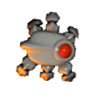
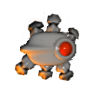
buriedRobot animation improved more

Changed region(s): [[0.15, 0.09, 0.81, 0.84]]

diff --git a/src/game/Utils/Utility.java b/src/game/Utils/Utility.java
@@ -17,11 +17,7 @@ public class Utility
 
     public static BufferedImage buriedRobot01 = loadBufferedImage(resourceDirectory + "buriedRobot/buriedRobot01.png");
     public static BufferedImage buriedRobot02 = loadBufferedImage(resourceDirectory + "buriedRobot/buriedRobot02.png");
-//    public static BufferedImage buriedRobot03 = loadBufferedImage(resourceDirectory + "buriedRobot/buriedRobot03.png");
-    public static BufferedImage buriedRobot04 = loadBufferedImage(resourceDirectory + "buriedRobot/buriedRobot04.png");
-    public static BufferedImage buriedRobot05 = loadBufferedImage(resourceDirectory + "buriedRobot/buriedRobot05.png");
-//    public static Animation buriedRobotAnimation = new Animation(4, buriedRobot01, buriedRobot05, buriedRobot02, buriedRobot04, buriedRobot03);
-    public static Animation buriedRobotAnimation = new Animation(2, buriedRobot02, buriedRobot04);
+    public static Animation buriedRobotAnimation = new Animation(2, buriedRobot01, buriedRobot02);
 
     public static BufferedImage heavyBullet = loadBufferedImage(resourceDirectory + "heavyBullet.png");
     public static BufferedImage lightBullet = loadBufferedImage(resourceDirectory + "lightBullet.png");
